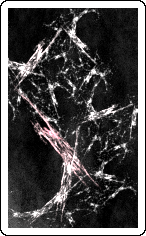
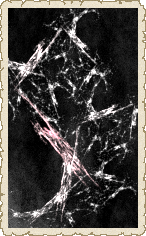
card back textures

Changed region(s): [[0.0, 0.0, 1.0, 1.0]]

diff --git a/Game/References.cs b/Game/References.cs
@@ -60,6 +60,7 @@ namespace tarot_card_battler.Game
         public static Texture2D Back_Text;
         public static Texture2D Back_Marbled;
         public static Texture2D Back_Eye_Sigil;
+        public static Texture2D Back_Eye_Sigil_Holo;
 
         // buttons
         public static Texture2D CastButton;
@@ -126,6 +127,7 @@ namespace tarot_card_battler.Game
             Back_Text = Raylib.LoadTextureFromImage(Raylib.LoadImage("Game/Res/Cardbacks/Back_Text.png"));
             Back_Marbled = Raylib.LoadTextureFromImage(Raylib.LoadImage("Game/Res/Cardbacks/Back_Marbled.png"));
             Back_Eye_Sigil = Raylib.LoadTextureFromImage(Raylib.LoadImage("Game/Res/Cardbacks/Back_Eye_Sigil.png"));
+            Back_Eye_Sigil_Holo = Raylib.LoadTextureFromImage(Raylib.LoadImage("Game/Res/Cardbacks/Back_Eye_Sigil_Holo.png"));
 
             CastButton = Raylib.LoadTextureFromImage(Raylib.LoadImage("Game/Res/Button_Cast_Default.png"));
             HoverButton = Raylib.LoadTextureFromImage(Raylib.LoadImage("Game/Res/Button_Cast_Hover.png"));
